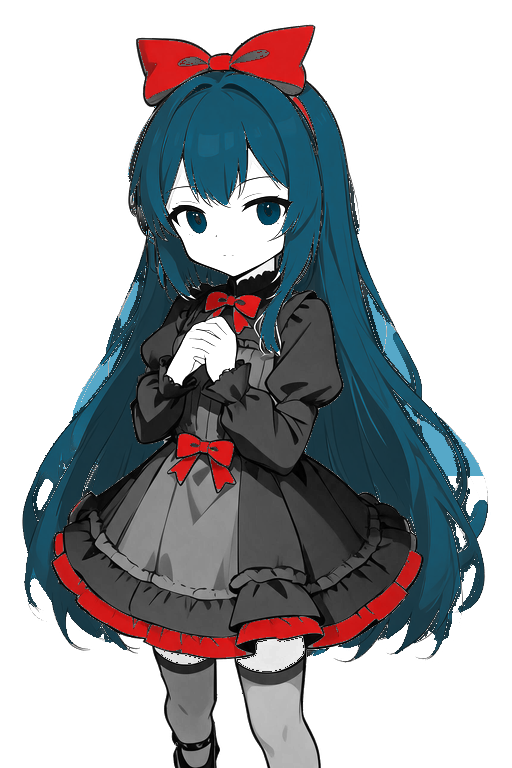
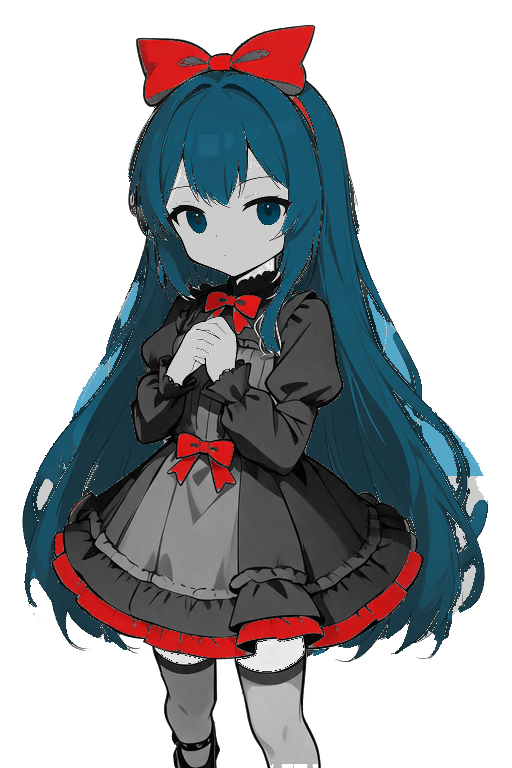
fix: 梅贝尔贴图白边/过曝处理——内部纯白压成浅灰、外沿白再削一轮

diff --git a/tools/matte_white.py b/tools/matte_white.py
@@ -1,0 +1,73 @@
+# -*- coding: utf-8 -*-
+"""白底图的 alpha 抠像精修：
+对「紧贴透明区 2px 内」的像素，按与白色的混合程度重算 alpha，并反预乘颜色，
+这样白边会变成半透明过渡，不会留一圈硬白。
+
+用法：
+    python tools/matte_white.py art/portrait/mabel.png [--band 2]
+"""
+import sys
+import glob
+from PIL import Image
+
+BAND = 2
+
+
+def near_transparent(alpha, W, H, x, y, r):
+    for dy in range(-r, r + 1):
+        for dx in range(-r, r + 1):
+            nx, ny = x + dx, y + dy
+            if nx < 0 or ny < 0 or nx >= W or ny >= H:
+                return True
+            if alpha[ny][nx] < 8:
+                return True
+    return False
+
+
+def run(path, band=BAND):
+    im = Image.open(path).convert('RGBA')
+    px = im.load()
+    W, H = im.size
+
+    alpha = [[px[x, y][3] for x in range(W)] for y in range(H)]
+    edits = []
+    for y in range(H):
+        for x in range(W):
+            r, g, b, a = px[x, y]
+            if a == 0:
+                continue
+            if not near_transparent(alpha, W, H, x, y, band):
+                continue
+            mn = min(r, g, b)
+            # 与白色的混合度：越白越透明
+            na = max(0, min(255, int((255 - mn) * 1.02)))
+            if na >= a:
+                continue
+            if na < 24:
+                edits.append((x, y, (r, g, b, 0)))
+                continue
+            # 反预乘：把白色背景贡献去掉
+            k = na / 255.0
+            nr = int(max(0, min(255, (r - 255 * (1 - k)) / max(k, 0.01))))
+            ng = int(max(0, min(255, (g - 255 * (1 - k)) / max(k, 0.01))))
+            nb = int(max(0, min(255, (b - 255 * (1 - k)) / max(k, 0.01))))
+            edits.append((x, y, (nr, ng, nb, na)))
+
+    for x, y, col in edits:
+        px[x, y] = col
+    im.save(path)
+    print(path, 'matte pixels', len(edits))
+
+
+if __name__ == '__main__':
+    args = sys.argv[1:]
+    files = [a for a in args if not a.startswith('--')]
+    if '--band' in args:
+        BAND = int(args[args.index('--band') + 1])
+        files = [f for f in files if f != str(BAND)]
+    expanded = []
+    for p in files:
+        hits = glob.glob(p)
+        expanded.extend(hits if hits else [p])
+    for f in expanded:
+        run(f)

diff --git a/tools/_hair_inline.py b/tools/_hair_inline.py
@@ -1,0 +1,53 @@
+# -*- coding: utf-8 -*-
+"""把「头发区域」里的白色内描边改成头发的深蓝色（限定区域，绝不碰脸）。"""
+import glob
+from PIL import Image
+
+FILES = glob.glob('art/portrait/mabel*.png') + glob.glob('art/char/mabel_idle.png')
+
+
+def lum(c):
+    return (c[0] + c[1] + c[2]) / 765.0
+
+
+def in_hair(x, y, W, H):
+    # 两侧头发 + 头顶：排除脸（中心 30%~70% × 18%~52%）
+    face = (0.30 * W <= x <= 0.70 * W) and (0.18 * H <= y <= 0.52 * H)
+    return not face
+
+
+def run(path):
+    im = Image.open(path).convert('RGBA')
+    px = im.load()
+    W, H = im.size
+    n = 0
+    edits = []
+    for y in range(int(H * 0.62)):
+        for x in range(W):
+            r, g, b, a = px[x, y]
+            if a < 16 or min(r, g, b) < 205:
+                continue
+            if not in_hair(x, y, W, H):
+                continue
+            darks = []
+            for dx in (-1, 0, 1):
+                for dy in (-1, 0, 1):
+                    nx, ny = x + dx, y + dy
+                    if (dx or dy) and 0 <= nx < W and 0 <= ny < H and px[nx, ny][3] > 16:
+                        c = px[nx, ny][:3]
+                        if lum(c) < 0.45:
+                            darks.append(c)
+            if len(darks) >= 2:
+                cr = sum(c[0] for c in darks) // len(darks)
+                cg = sum(c[1] for c in darks) // len(darks)
+                cb = sum(c[2] for c in darks) // len(darks)
+                edits.append((x, y, (cr, cg, cb)))
+    for x, y, col in edits:
+        px[x, y] = (col[0], col[1], col[2], 255)
+        n += 1
+    im.save(path)
+    print(path, 'hair inner white line -> dark', n)
+
+
+for f in FILES:
+    run(f)

diff --git a/tools/_erode_white_outline.py b/tools/_erode_white_outline.py
@@ -1,0 +1,52 @@
+# -*- coding: utf-8 -*-
+"""把轮廓外围一整圈白色描边整段吃掉（多轮侵蚀，直到碰到深色/彩色像素）。"""
+import glob
+from PIL import Image
+
+FILES = glob.glob('art/portrait/mabel*.png')
+PASSES = 60
+TH = 0.62
+
+
+def lum(c):
+    return (c[0] + c[1] + c[2]) / 765.0
+
+
+def run(path):
+    im = Image.open(path).convert('RGBA')
+    px = im.load()
+    W, H = im.size
+    total = 0
+    for _ in range(PASSES):
+        edits = []
+        for y in range(H):
+            for x in range(W):
+                r, g, b, a = px[x, y]
+                if a < 16:
+                    continue
+                mx, mn = max(r, g, b), min(r, g, b)
+                if (mx - mn) > 40:      # 有颜色（红/蓝），留着
+                    continue
+                if lum((r, g, b)) < TH:  # 深色，留着
+                    continue
+                # 只吃紧贴透明的
+                edge = False
+                for dx, dy in ((1, 0), (-1, 0), (0, 1), (0, -1)):
+                    nx, ny = x + dx, y + dy
+                    if nx < 0 or ny < 0 or nx >= W or ny >= H or px[nx, ny][3] < 16:
+                        edge = True
+                        break
+                if edge:
+                    edits.append((x, y))
+        if not edits:
+            break
+        for x, y in edits:
+            r, g, b, _ = px[x, y]
+            px[x, y] = (r, g, b, 0)
+            total += 1
+    im.save(path)
+    print(path, 'white outline eroded px', total)
+
+
+for f in FILES:
+    run(f)
